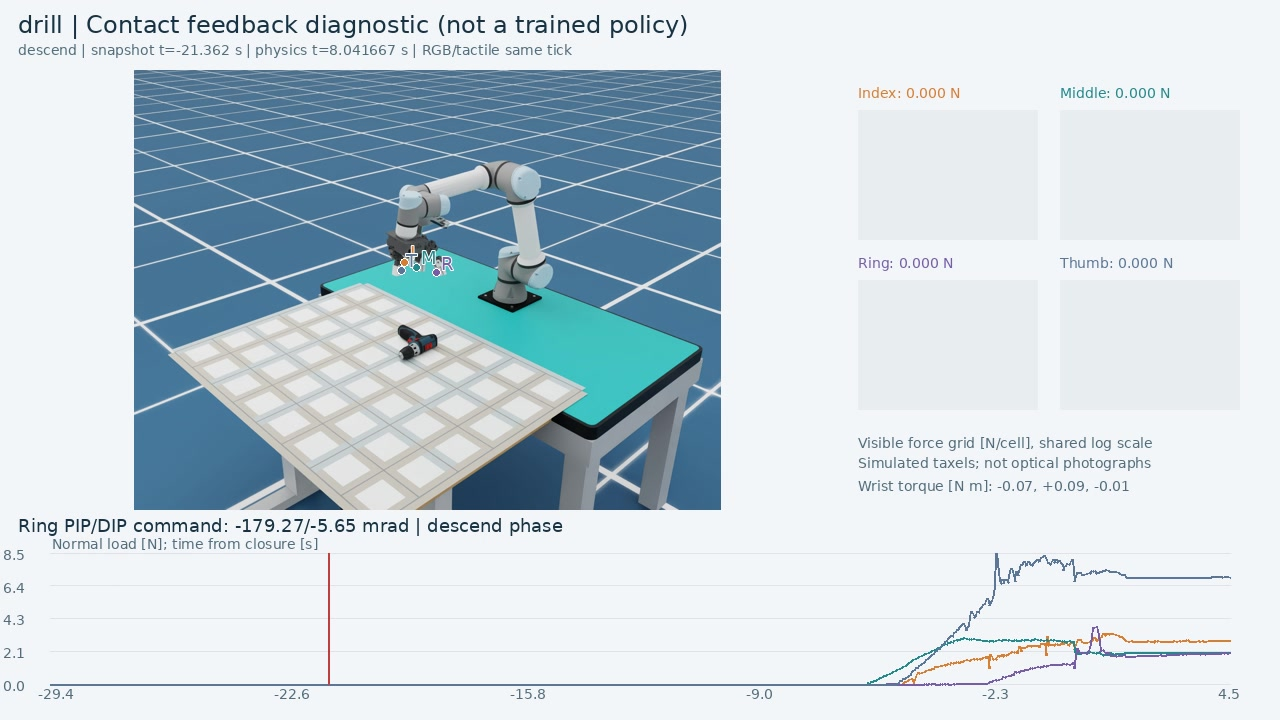
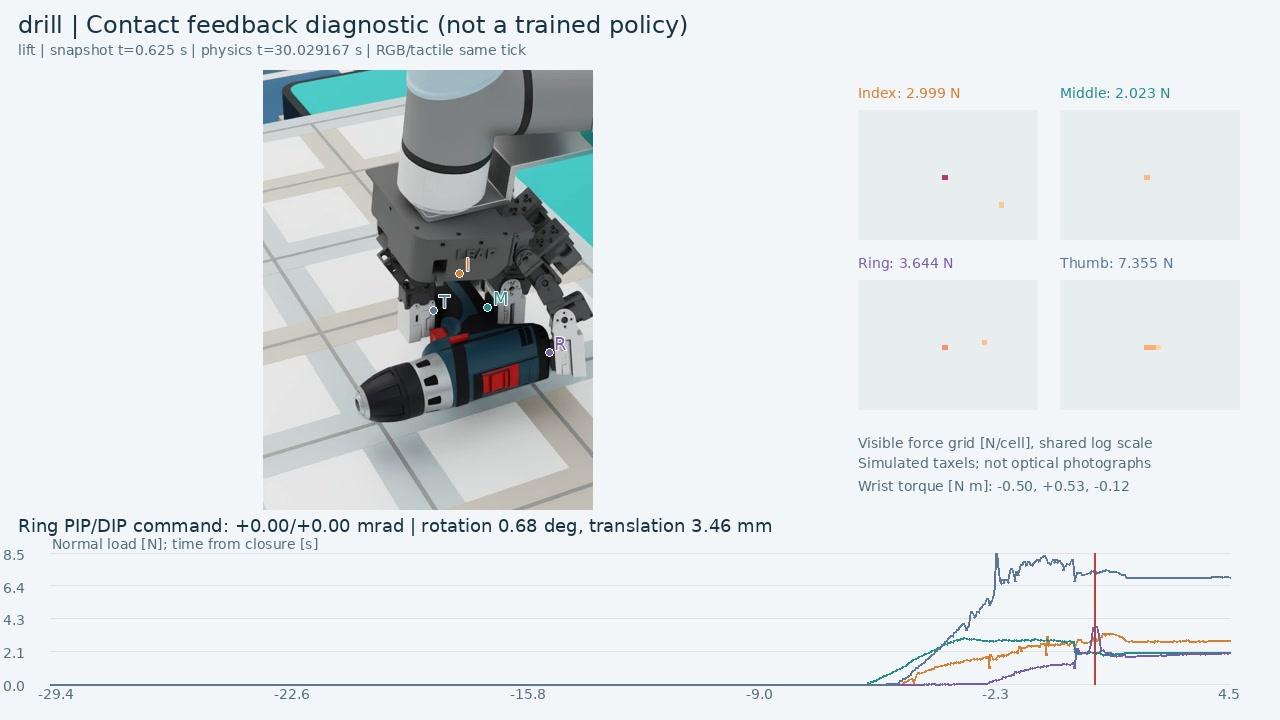
Show drill tactile contact in preview

diff --git a/demos/tactile_replays/drill.html b/demos/tactile_replays/drill.html
@@ -1,7 +1,7 @@
 <!doctype html><html lang="en"><meta charset="utf-8"><title>drill · Synchronized Tactile Replay</title>
 <style>body{background:#14252e;color:#d9ecee;font:16px system-ui;margin:20px}button{padding:8px 14px;margin:4px;background:#167f8a;color:white;border:0;cursor:pointer}.main{display:grid;grid-template-columns:1.2fr 1fr;gap:15px}.pads{display:grid;grid-template-columns:1fr 1fr;gap:6px}.pads canvas{width:100%;display:block;background:#101b20;border:1px solid #597177}.small{font-size:13px;color:#a8c5cd;line-height:1.55}.control{display:flex;gap:8px;align-items:center}.control input{flex:1}#stats{padding:16px;background:#253d47;line-height:1.7;margin-top:12px}#scene{width:100%;display:block;background:#10252e}.fallback{max-width:980px;margin:16px 0}.fallback video{width:100%;display:block;background:#10252e;border:1px solid #597177}.fallback p{max-width:980px}</style>
-<h2 id="title">drill / coupled engineering diagnostic / Synchronized Tactile Replay</h2><div class="small">Each packet synchronizes the scene, four tactile panels, and wrench values. Tactile panels are optical/visible-contact proxy visualizations, not calibrated force maps.</div>
+<h2 id="title">drill / Contact feedback diagnostic (not a trained policy) / Synchronized Tactile Replay</h2><div class="small">Each packet synchronizes the scene, four tactile panels, and wrench values. Tactile panels are optical/visible-contact proxy visualizations, not calibrated force maps.</div>
 <div id="interactive"><div class="control"><button id="play">Play</button><input id="time" type="range" value="0" min="0"><b id="label"></b></div><div id="phases"></div>
 <div class="main"><canvas id="scene" width="720" height="540" aria-label="Synchronized scene"></canvas><div class="pads"><div><b style="color:#df7b27">Index</b><canvas id="p0" width="320" height="240"></canvas><span id="n0"></span></div><div><b style="color:#007f82">Middle</b><canvas id="p1" width="320" height="240"></canvas><span id="n1"></span></div><div><b style="color:#7958a6">Ring</b><canvas id="p2" width="320" height="240"></canvas><span id="n2"></span></div><div><b style="color:#5d789d">Thumb</b><canvas id="p3" width="320" height="240"></canvas><span id="n3"></span></div></div></div><div id="stats"></div></div>
-<noscript><style>#interactive{display:none!important}</style><section class="fallback"><h2>drill / coupled engineering diagnostic / Replay video</h2><video autoplay loop muted controls playsinline preload="metadata" poster="../../assets/replays_video/drill_poster.jpg" aria-label="drill synchronized tactile replay"><source src="../../assets/replays_video/drill.mp4" type="video/mp4"></video><p class="small">This synchronized replay is available without JavaScript. Enable “JS on” in the viewer toolbar for packet-level phase buttons, tactile panels, and the time slider.</p></section></noscript>
+<noscript><style>#interactive{display:none!important}</style><section class="fallback"><h2>drill / Contact feedback diagnostic (not a trained policy) / Replay video</h2><video autoplay loop muted controls playsinline preload="metadata" poster="../../assets/replays_video/drill_poster.jpg" aria-label="drill synchronized tactile replay"><source src="../../assets/replays_video/drill.mp4" type="video/mp4"></video><p class="small">This synchronized replay is available without JavaScript. Enable “JS on” in the viewer toolbar for packet-level phase buttons, tactile panels, and the time slider.</p></section></noscript>
 <script>const D={"sprite":"../../assets/replays_sprite/drill.jpg","object":"drill","mode":"contact feedback engineering diagnostic","sprite":"../../assets/replays_sprite/drill.jpg","cols":6,"cellW":480,"cellH":180,"packets":[{"t":0.0417,"phase":"home","dynamic":false,"slider":0.0,"target":0.0,"com":[0.0,0.0,0.0],"wrench":[-0.059,0.112,-0.013],"normal":[0.0,0.0,0.0,0.0]},{"t":0.5417,"phase":"home","dynamic":false,"slider":0.0,"target":0.0,"com":[0.0,0.0,0.0],"wrench":[-0.061,0.106,-0.0],"normal":[0.0,0.0,0.0,0.0]},{"t":1.0417,"phase":"home","dynamic":false,"slider":0.0,"target":0.0,"com":[0.0,0.0,0.0],"wrench":[-0.061,0.106,0.0],"normal":[0.0,0.0,0.0,0.0]},{"t":1.5417,"phase":"home","dynamic":false,"slider":0.0,"target":0.0,"com":[0.0,0.0,0.0],"wrench":[-0.061,0.106,0.0],"normal":[0.0,0.0,0.0,0.0]},{"t":2.0417,"phase":"hand_pregrasp","dynamic":false,"slider":0.0,"target":0.0,"com":[0.0,0.0,0.0],"wrench":[-0.1,0.134,-0.025],"normal":[0.0,0.0,0.0,0.0]},{"t":2.5417,"phase":"hand_pregrasp","dynamic":false,"slider":0.0,"target":0.0,"com":[0.0,0.0,0.0],"wrench":[-0.088,0.172,-0.034],"normal":[0.0,0.0,0.0,0.0]},{"t":3.0417,"phase":"move","dynamic":false,"slider":0.0,"target":0.0,"com":[0.0,0.0,0.0],"wrench":[0.002,-0.056,0.072],"normal":[0.0,0.0,0.0,0.0]},{"t":3.5417,"phase":"move","dynamic":false,"slider":0.0,"target":0.0,"com":[0.0,0.0,0.0],"wrench":[-0.091,0.112,-0.016],"normal":[0.0,0.0,0.0,0.0]},{"t":4.0417,"phase":"move","dynamic":false,"slider":0.0,"target":0.0,"com":[0.0,0.0,0.0],"wrench":[-0.091,0.091,-0.004],"normal":[0.0,0.0,0.0,0.0]},{"t":4.5417,"phase":"move","dynamic":false,"slider":0.0,"target":0.0,"com":[0.0,0.0,0.0],"wrench":[-0.069,0.13,-0.013],"normal":[0.0,0.0,0.0,0.0]},{"t":5.0417,"phase":"move","dynamic":false,"slider":0.0,"target":0.0,"com":[0.0,0.0,0.0],"wrench":[-0.028,0.098,0.002],"normal":[0.0,0.0,0.0,0.0]},{"t":5.5417,"phase":"move","dynamic":false,"slider":0.0,"target":0.0,"com":[0.0,0.0,0.0],"wrench":[-0.051,0.127,-0.009],"normal":[0.0,0.0,0.0,0.0]},{"t":6.0417,"phase":"move","dynamic":false,"slider":0.0,"target":0.0,"com":[0.0,0.0,0.0],"wrench":[-0.139,0.127,-0.025],"normal":[0.0,0.0,0.0,0.0]},{"t":6.5417,"phase":"move","dynamic":false,"slider":0.0,"target":0.0,"com":[0.0,0.0,0.0],"wrench":[-0.096,0.115,-0.011],"normal":[0.0,0.0,0.0,0.0]},{"t":7.0417,"phase":"move","dynamic":false,"slider":0.0,"target":0.0,"com":[0.0,0.0,0.0],"wrench":[-0.103,0.104,-0.008],"normal":[0.0,0.0,0.0,0.0]},{"t":7.5417,"phase":"move","dynamic":false,"slider":0.0,"target":0.0,"com":[0.0,0.0,0.0],"wrench":[-0.103,0.096,-0.004],"normal":[0.0,0.0,0.0,0.0]},{"t":8.0417,"phase":"descend","dynamic":false,"slider":0.0,"target":0.0,"com":[0.0,0.0,0.0],"wrench":[-0.069,0.089,-0.013],"normal":[0.0,0.0,0.0,0.0]},{"t":8.5417,"phase":"descend","dynamic":false,"slider":0.0,"target":0.0,"com":[0.0,0.0,0.0],"wrench":[-0.055,0.105,-0.021],"normal":[0.0,0.0,0.0,0.0]},{"t":9.0417,"phase":"descend","dynamic":false,"slider":0.0,"target":0.0,"com":[0.0,0.0,0.0],"wrench":[-0.065,0.107,-0.022],"normal":[0.0,0.0,0.0,0.0]},{"t":9.5417,"phase":"descend","dynamic":false,"slider":0.0,"target":0.0,"com":[0.0,0.0,0.0],"wrench":[-0.085,0.107,-0.023],"normal":[0.0,0.0,0.0,0.0]},{"t":10.0417,"phase":"pregrasp","dynamic":false,"slider":0.0,"target":0.0,"com":[0.0,0.0,0.0],"wrench":[-0.077,0.09,-0.016],"normal":[0.0,0.0,0.0,0.0]},{"t":10.5417,"phase":"pregrasp","dynamic":false,"slider":0.0,"target":0.0,"com":[0.0,0.0,0.0],"wrench":[-0.072,0.101,-0.019],"normal":[0.0,0.0,0.0,0.0]},{"t":11.0417,"phase":"approach","dynamic":false,"slider":0.0,"target":0.0,"com":[0.0,0.0,0.0],"wrench":[-0.07,0.091,-0.018],"normal":[0.0,0.0,0.0,0.0]},{"t":11.5417,"phase":"approach","dynamic":false,"slider":0.0,"target":0.0,"com":[0.0,0.0,0.0],"wrench":[-0.067,0.099,-0.019],"normal":[0.0,0.0,0.0,0.0]},{"t":12.0417,"phase":"approach","dynamic":false,"slider":0.0,"target":0.0,"com":[0.0,0.0,0.0],"wrench":[-0.073,0.104,-0.021],"normal":[0.0,0.0,0.0,0.0]},{"t":12.5417,"phase":"approach","dynamic":false,"slider":0.0,"target":0.0,"com":[0.0,0.0,0.0],"wrench":[-0.077,0.11,-0.023],"normal":[0.0,0.0,0.0,0.0]},{"t":13.0417,"phase":"close","dynamic":false,"slider":0.0,"target":0.0,"com":[0.0,0.0,0.0],"wrench":[-0.074,0.098,-0.019],"normal":[0.0,0.0,0.0,0.0]},{"t":13.5417,"phase":"close","dynamic":false,"slider":0.0,"target":0.0,"com":[0.0,0.0,0.0],"wrench":[-0.072,0.102,-0.019],"normal":[0.0,0.0,0.0,0.0]},{"t":14.0417,"phase":"close","dynamic":false,"slider":0.0,"target":0.0,"com":[0.0,0.0,0.0],"wrench":[-0.072,0.101,-0.019],"normal":[0.0,0.0,0.0,0.0]},{"t":14.5417,"phase":"close","dynamic":false,"slider":0.0,"target":0.0,"com":[0.0,0.0,0.0],"wrench":[-0.072,0.101,-0.019],"normal":[0.0,0.0,0.0,0.0]},{"t":15.0417,"phase":"close","dynamic":false,"slider":0.0,"target":0.0,"com":[0.0,0.0,0.0],"wrench":[-0.072,0.101,-0.019],"normal":[0.0,0.0,0.0,0.0]},{"t":15.5417,"phase":"close","dynamic":false,"slider":0.0,"target":0.0,"com":[0.0,0.0,0.0],"wrench":[-0.072,0.101,-0.019],"normal":[0.0,0.0,0.0,0.0]},{"t":16.0417,"phase":"close","dynamic":false,"slider":0.0,"target":0.0,"com":[0.0,0.0,0.0],"wrench":[-0.072,0.102,-0.019],"normal":[0.0,0.0,0.0,0.0]},{"t":16.5417,"phase":"close","dynamic":false,"slider":0.0,"target":0.0,"com":[0.0,0.0,0.0],"wrench":[-0.072,0.102,-0.019],"normal":[0.0,0.0,0.0,0.0]},{"t":17.0417,"phase":"close","dynamic":false,"slider":0.0,"target":0.0,"com":[0.0,0.0,0.0],"wrench":[-0.072,0.101,-0.019],"normal":[0.0,0.0,0.0,0.0]},{"t":17.5417,"phase":"close","dynamic":false,"slider":0.0,"target":0.0,"com":[0.0,0.0,0.0],"wrench":[-0.072,0.101,-0.019],"normal":[0.0,0.0,0.0,0.0]},{"t":18.0417,"phase":"close","dynamic":false,"slider":0.0,"target":0.0,"com":[0.0,0.0,0.0],"wrench":[-0.072,0.101,-0.019],"normal":[0.0,0.0,0.0,0.0]},{"t":18.5417,"phase":"close","dynamic":false,"slider":0.0,"target":0.0,"com":[0.0,0.0,0.0],"wrench":[-0.072,0.101,-0.019],"normal":[0.0,0.0,0.0,0.0]},{"t":19.0417,"phase":"close","dynamic":false,"slider":0.0,"target":0.0,"com":[0.0,0.0,0.0],"wrench":[-0.072,0.102,-0.019],"normal":[0.0,0.0,0.0,0.0]},{"t":19.5417,"phase":"close","dynamic":false,"slider":0.0,"target":0.0,"com":[0.0,0.0,0.0],"wrench":[-0.072,0.101,-0.019],"normal":[0.0,0.0,0.0,0.0]},{"t":20.0417,"phase":"close","dynamic":false,"slider":0.0,"target":0.0,"com":[0.0,0.0,0.0],"wrench":[-0.072,0.101,-0.019],"normal":[0.0,0.0,0.0,0.0]},{"t":20.5417,"phase":"close","dynamic":false,"slider":0.0,"target":0.0,"com":[0.0,0.0,0.0],"wrench":[-0.072,0.101,-0.019],"normal":[0.0,0.0,0.0,0.0]},{"t":21.0417,"phase":"close","dynamic":false,"slider":0.0,"target":0.0,"com":[0.0,0.0,0.0],"wrench":[-0.072,0.101,-0.019],"normal":[0.0,0.0,0.0,0.0]},{"t":21.5417,"phase":"close","dynamic":false,"slider":0.0,"target":0.0,"com":[0.0,0.0,0.0],"wrench":[-0.072,0.102,-0.019],"normal":[0.0,0.0,0.0,0.0]},{"t":22.0417,"phase":"close","dynamic":false,"slider":0.0,"target":0.0,"com":[0.0,0.0,0.0],"wrench":[-0.072,0.102,-0.02],"normal":[0.0,0.0,0.0,0.0]},{"t":22.5417,"phase":"close","dynamic":false,"slider":0.0,"target":0.0,"com":[0.0,0.0,0.0],"wrench":[-0.072,0.101,-0.019],"normal":[0.0,0.0,0.0,0.0]},{"t":23.0417,"phase":"close","dynamic":false,"slider":0.0,"target":0.0,"com":[0.0,0.0,0.0],"wrench":[-0.072,0.102,-0.02],"normal":[0.0,0.0,0.0,0.0]},{"t":23.5417,"phase":"close","dynamic":false,"slider":0.0,"target":0.0,"com":[0.0,0.0,0.0],"wrench":[-0.07,0.105,-0.021],"normal":[0.0,0.082,0.0,0.0]},{"t":23.875,"phase":"close","dynamic":false,"slider":0.0,"target":0.0,"com":[0.0,0.0,0.0],"wrench":[-0.064,0.151,-0.036],"normal":[0.0,0.397,0.0,0.0]},{"t":24.375,"phase":"close","dynamic":false,"slider":0.0,"target":0.0,"com":[0.0,0.0,0.0],"wrench":[0.019,0.313,-0.171],"normal":[0.0,0.927,0.0,0.023]},{"t":24.875,"phase":"close","dynamic":false,"slider":0.0,"target":0.0,"com":[0.0,0.0,0.0],"wrench":[0.197,0.415,-0.303],"normal":[0.248,1.647,0.0,0.954]},{"t":25.375,"phase":"close","dynamic":false,"slider":0.0,"target":0.0,"com":[0.0,0.0,0.0],"wrench":[0.281,0.595,-0.407],"normal":[1.027,2.185,0.003,1.913]},{"t":25.875,"phase":"close","dynamic":false,"slider":0.0,"target":0.0,"com":[0.0,0.0,0.0],"wrench":[0.342,0.646,-0.492],"normal":[1.265,2.685,0.0,3.059]},{"t":26.375,"phase":"close","dynamic":false,"slider":0.0,"target":0.0,"com":[0.0,0.0,0.0],"wrench":[0.33,0.777,-0.569],"normal":[1.588,2.945,0.012,3.694]},{"t":26.875,"phase":"close","dynamic":false,"slider":0.0,"target":0.0,"com":[0.0,0.0,0.0],"wrench":[0.187,0.641,-0.577],"normal":[1.775,2.849,0.024,5.2]},{"t":27.375,"phase":"close","dynamic":false,"slider":0.0,"target":0.0,"com":[0.0,0.0,0.0],"wrench":[0.111,0.539,-0.513],"normal":[1.888,2.84,0.373,6.769]},{"t":27.875,"phase":"close","dynamic":false,"slider":0.0,"target":0.0,"com":[0.0,0.0,0.0],"wrench":[0.012,0.559,-0.469],"normal":[2.426,2.822,0.774,7.285]},{"t":28.375,"phase":"close","dynamic":false,"slider":0.0,"target":0.0,"com":[0.0,0.0,0.0],"wrench":[-0.117,0.405,-0.432],"normal":[2.524,2.858,1.106,8.069]},{"t":28.875,"phase":"close","dynamic":false,"slider":0.0,"target":0.0,"com":[0.0,0.0,0.0],"wrench":[-0.117,0.515,-0.391],"normal":[2.522,2.861,1.272,7.914]},{"t":29.0417,"phase":"settle","dynamic":false,"slider":0.0,"target":0.0,"com":[0.0,0.0,0.0],"wrench":[-0.108,0.484,-0.356],"normal":[2.572,2.815,1.257,7.884]},{"t":29.2917,"phase":"settle","dynamic":false,"slider":0.0,"target":0.0,"com":[0.0,0.0,0.0],"wrench":[-0.045,0.524,-0.332],"normal":[2.518,2.796,1.293,7.735]},{"t":29.4042,"phase":"closed","dynamic":false,"slider":0.0,"target":0.0,"com":[0.0,0.0,0.0],"wrench":[-0.199,0.495,-0.321],"normal":[2.474,2.731,1.384,7.29]},{"t":29.4458,"phase":"lift","dynamic":false,"slider":0.0,"target":0.0,"com":[0.0,0.0,0.0],"wrench":[-0.258,0.8,-0.361],"normal":[2.222,2.126,0.995,6.637]},{"t":29.5292,"phase":"lift","dynamic":false,"slider":0.0,"target":0.0,"com":[0.0,0.0,0.0],"wrench":[-0.601,0.441,-0.032],"normal":[2.731,2.036,2.283,7.235]},{"t":29.6125,"phase":"lift","dynamic":false,"slider":0.0,"target":0.0,"com":[0.0,0.0,0.0],"wrench":[-0.518,0.543,-0.115],"normal":[2.869,1.962,2.072,7.232]},{"t":29.6958,"phase":"lift","dynamic":false,"slider":0.0,"target":0.0,"com":[0.0,0.0,0.0],"wrench":[-0.534,0.531,-0.109],"normal":[2.704,2.035,2.071,7.138]},{"t":29.7792,"phase":"lift","dynamic":false,"slider":0.0,"target":0.0,"com":[0.0,0.0,0.0],"wrench":[-0.519,0.534,-0.107],"normal":[2.711,2.066,2.004,7.151]},{"t":29.8625,"phase":"lift","dynamic":false,"slider":0.0,"target":0.0,"com":[0.0,0.0,0.0],"wrench":[-0.525,0.536,-0.113],"normal":[2.728,2.032,2.186,7.241]},{"t":29.9458,"phase":"lift","dynamic":false,"slider":0.0,"target":0.0,"com":[0.0,0.0,0.0],"wrench":[-0.504,0.527,-0.104],"normal":[2.805,2.052,3.033,7.339]},{"t":30.0292,"phase":"lift","dynamic":false,"slider":0.0,"target":0.0,"com":[0.0,0.0,0.0],"wrench":[-0.495,0.528,-0.116],"normal":[2.999,2.023,3.644,7.355]},{"t":30.1125,"phase":"lift","dynamic":false,"slider":0.0,"target":0.0,"com":[0.0,0.0,0.0],"wrench":[-0.492,0.52,-0.108],"normal":[2.845,2.063,3.505,7.262]},{"t":30.1958,"phase":"lift","dynamic":false,"slider":0.0,"target":0.0,"com":[0.0,0.0,0.0],"wrench":[-0.502,0.506,-0.1],"normal":[2.995,1.993,2.102,7.275]},{"t":30.2792,"phase":"lift","dynamic":false,"slider":0.0,"target":0.0,"com":[0.0,0.0,0.0],"wrench":[-0.502,0.502,-0.097],"normal":[3.285,1.88,2.166,7.394]},{"t":30.3625,"phase":"lift","dynamic":false,"slider":0.0,"target":0.0,"com":[0.0,0.0,0.0],"wrench":[-0.492,0.509,-0.102],"normal":[3.272,1.905,2.016,7.408]},{"t":30.4458,"phase":"lift","dynamic":false,"slider":0.0,"target":0.0,"com":[0.0,0.0,0.0],"wrench":[-0.49,0.531,-0.109],"normal":[3.223,1.945,1.9,7.29]},{"t":30.5292,"phase":"lift","dynamic":false,"slider":0.0,"target":0.0,"com":[0.0,0.0,0.0],"wrench":[-0.479,0.506,-0.11],"normal":[3.281,1.923,1.841,7.304]},{"t":30.6125,"phase":"lift","dynamic":false,"slider":0.0,"target":0.0,"com":[0.0,0.0,0.0],"wrench":[-0.496,0.501,-0.097],"normal":[3.245,1.94,1.826,7.302]},{"t":30.6958,"phase":"lift","dynamic":false,"slider":0.0,"target":0.0,"com":[0.0,0.0,0.0],"wrench":[-0.475,0.5,-0.097],"normal":[3.156,1.971,1.819,7.26]},{"t":30.7792,"phase":"lift","dynamic":false,"slider":0.0,"target":0.0,"com":[0.0,0.0,0.0],"wrench":[-0.484,0.506,-0.099],"normal":[3.053,1.953,1.849,7.142]},{"t":30.8625,"phase":"lift","dynamic":false,"slider":0.0,"target":0.0,"com":[0.0,0.0,0.0],"wrench":[-0.475,0.5,-0.094],"normal":[2.917,1.991,1.892,7.128]},{"t":30.9458,"phase":"hold","dynamic":false,"slider":0.0,"target":0.0,"com":[0.0,0.0,0.0],"wrench":[-0.488,0.527,-0.107],"normal":[2.81,2.046,1.799,6.935]},{"t":31.0292,"phase":"hold","dynamic":false,"slider":0.0,"target":0.0,"com":[0.0,0.0,0.0],"wrench":[-0.495,0.52,-0.104],"normal":[2.768,2.054,1.793,6.931]},{"t":31.1125,"phase":"hold","dynamic":false,"slider":0.0,"target":0.0,"com":[0.0,0.0,0.0],"wrench":[-0.503,0.525,-0.108],"normal":[2.772,2.046,1.813,6.918]},{"t":31.1958,"phase":"hold","dynamic":false,"slider":0.0,"target":0.0,"com":[0.0,0.0,0.0],"wrench":[-0.501,0.52,-0.103],"normal":[2.772,2.044,1.817,6.917]},{"t":31.2792,"phase":"hold","dynamic":false,"slider":0.0,"target":0.0,"com":[0.0,0.0,0.0],"wrench":[-0.504,0.517,-0.104],"normal":[2.789,2.034,1.838,6.939]},{"t":31.3625,"phase":"hold","dynamic":false,"slider":0.0,"target":0.0,"com":[0.0,0.0,0.0],"wrench":[-0.501,0.521,-0.106],"normal":[2.762,2.043,1.829,6.928]},{"t":31.4458,"phase":"hold","dynamic":false,"slider":0.0,"target":0.0,"com":[0.0,0.0,0.0],"wrench":[-0.503,0.525,-0.105],"normal":[2.75,2.05,1.841,6.915]},{"t":31.5292,"phase":"hold","dynamic":false,"slider":0.0,"target":0.0,"com":[0.0,0.0,0.0],"wrench":[-0.509,0.521,-0.103],"normal":[2.771,2.043,1.856,6.913]},{"t":31.6125,"phase":"hold","dynamic":false,"slider":0.0,"target":0.0,"com":[0.0,0.0,0.0],"wrench":[-0.502,0.517,-0.102],"normal":[2.758,2.041,1.859,6.911]},{"t":31.6958,"phase":"hold","dynamic":false,"slider":0.0,"target":0.0,"com":[0.0,0.0,0.0],"wrench":[-0.504,0.526,-0.104],"normal":[2.752,2.046,1.869,6.914]},{"t":31.7792,"phase":"hold","dynamic":false,"slider":0.0,"target":0.0,"com":[0.0,0.0,0.0],"wrench":[-0.501,0.516,-0.106],"normal":[2.842,2.013,1.855,6.912]},{"t":31.8625,"phase":"hold","dynamic":false,"slider":0.0,"target":0.0,"com":[0.0,0.0,0.0],"wrench":[-0.5,0.519,-0.104],"normal":[2.813,2.024,1.868,6.92]},{"t":31.9458,"phase":"hold","dynamic":false,"slider":0.0,"target":0.0,"com":[0.0,0.0,0.0],"wrench":[-0.487,0.517,-0.105],"normal":[2.761,2.064,1.881,6.903]},{"t":32.0292,"phase":"hold","dynamic":false,"slider":0.0,"target":0.0,"com":[0.0,0.0,0.0],"wrench":[-0.495,0.516,-0.104],"normal":[2.779,2.043,1.876,6.916]},{"t":32.1125,"phase":"hold","dynamic":false,"slider":0.0,"target":0.0,"com":[0.0,0.0,0.0],"wrench":[-0.499,0.517,-0.103],"normal":[2.776,2.049,1.888,6.916]},{"t":32.1958,"phase":"hold","dynamic":false,"slider":0.0,"target":0.0,"com":[0.0,0.0,0.0],"wrench":[-0.503,0.519,-0.105],"normal":[2.791,2.028,1.883,6.924]},{"t":32.2792,"phase":"hold","dynamic":false,"slider":0.0,"target":0.0,"com":[0.0,0.0,0.0],"wrench":[-0.498,0.519,-0.102],"normal":[2.779,2.061,1.909,6.906]},{"t":32.3625,"phase":"hold","dynamic":false,"slider":0.0,"target":0.0,"com":[0.0,0.0,0.0],"wrench":[-0.5,0.523,-0.107],"normal":[2.748,2.056,1.91,6.901]},{"t":32.4458,"phase":"hold","dynamic":false,"slider":0.0,"target":0.0,"com":[0.0,0.0,0.0],"wrench":[-0.498,0.524,-0.105],"normal":[2.853,2.043,1.92,6.926]},{"t":32.5292,"phase":"hold","dynamic":false,"slider":0.0,"target":0.0,"com":[0.0,0.0,0.0],"wrench":[-0.496,0.52,-0.105],"normal":[2.793,2.046,1.948,6.904]},{"t":32.6125,"phase":"hold","dynamic":false,"slider":0.0,"target":0.0,"com":[0.0,0.0,0.0],"wrench":[-0.505,0.522,-0.103],"normal":[2.821,2.026,1.951,6.908]},{"t":32.6958,"phase":"hold","dynamic":false,"slider":0.0,"target":0.0,"com":[0.0,0.0,0.0],"wrench":[-0.505,0.533,-0.104],"normal":[2.867,2.034,1.958,6.917]},{"t":32.7792,"phase":"hold","dynamic":false,"slider":0.0,"target":0.0,"com":[0.0,0.0,0.0],"wrench":[-0.496,0.521,-0.106],"normal":[2.777,2.038,1.948,6.903]},{"t":32.8625,"phase":"hold","dynamic":false,"slider":0.0,"target":0.0,"com":[0.0,0.0,0.0],"wrench":[-0.496,0.529,-0.106],"normal":[2.761,2.044,1.96,6.893]},{"t":32.9458,"phase":"hold","dynamic":false,"slider":0.0,"target":0.0,"com":[0.0,0.0,0.0],"wrench":[-0.498,0.52,-0.104],"normal":[2.79,2.041,1.95,6.896]},{"t":33.0292,"phase":"hold","dynamic":false,"slider":0.0,"target":0.0,"com":[0.0,0.0,0.0],"wrench":[-0.501,0.523,-0.105],"normal":[2.749,2.054,1.957,6.894]},{"t":33.1125,"phase":"hold","dynamic":false,"slider":0.0,"target":0.0,"com":[0.0,0.0,0.0],"wrench":[-0.505,0.518,-0.104],"normal":[2.814,2.046,1.955,6.912]},{"t":33.1958,"phase":"hold","dynamic":false,"slider":0.0,"target":0.0,"com":[0.0,0.0,0.0],"wrench":[-0.503,0.523,-0.106],"normal":[2.788,2.045,1.947,6.907]},{"t":33.2792,"phase":"hold","dynamic":false,"slider":0.0,"target":0.0,"com":[0.0,0.0,0.0],"wrench":[-0.506,0.509,-0.104],"normal":[2.802,2.018,1.964,6.913]},{"t":33.3625,"phase":"hold","dynamic":false,"slider":0.0,"target":0.0,"com":[0.0,0.0,0.0],"wrench":[-0.501,0.495,-0.1],"normal":[2.804,2.042,1.98,6.927]},{"t":33.4458,"phase":"hold","dynamic":false,"slider":0.0,"target":0.0,"com":[0.0,0.0,0.0],"wrench":[-0.487,0.521,-0.108],"normal":[2.84,2.053,1.975,6.969]},{"t":33.5292,"phase":"hold","dynamic":false,"slider":0.0,"target":0.0,"com":[0.0,0.0,0.0],"wrench":[-0.506,0.516,-0.103],"normal":[2.805,2.077,2.004,6.953]},{"t":33.6125,"phase":"hold","dynamic":false,"slider":0.0,"target":0.0,"com":[0.0,0.0,0.0],"wrench":[-0.5,0.516,-0.102],"normal":[2.811,2.071,2.002,6.969]},{"t":33.6958,"phase":"hold","dynamic":false,"slider":0.0,"target":0.0,"com":[0.0,0.0,0.0],"wrench":[-0.508,0.52,-0.101],"normal":[2.806,2.067,2.017,6.944]},{"t":33.7792,"phase":"hold","dynamic":false,"slider":0.0,"target":0.0,"com":[0.0,0.0,0.0],"wrench":[-0.508,0.516,-0.1],"normal":[2.81,2.058,2.021,6.957]},{"t":33.8625,"phase":"hold","dynamic":false,"slider":0.0,"target":0.0,"com":[0.0,0.0,0.0],"wrench":[-0.492,0.519,-0.104],"normal":[2.815,2.07,2.01,6.959]},{"t":33.9042,"phase":"hold_complete","dynamic":false,"slider":0.0,"target":0.0,"com":[0.0,0.0,0.0],"wrench":[-0.503,0.519,-0.103],"normal":[2.818,2.054,2.015,6.94]}]},phaseNames={home:'Home',hand_pregrasp:'Hand pre-grasp',move:'Move',descend:'Descend',pregrasp:'Pre-grasp',approach:'Approach',close:'Close',closing:'Close',settle:'Contact settle',closed:'Closure complete',lift:'Lift',hold:'Hold',hold_complete:'Hold complete',failure:'Failure',return:'Return'};let current=0,timer=null,time=document.getElementById('time'),sprite=new Image();time.max=D.packets.length-1;const repoMatch=location.pathname.match(/\/r\/([^/]+)/),assetRoot=repoMatch?('/api/repo/'+repoMatch[1]+'/file/assets/replays_sprite/'):'';sprite.src=assetRoot?assetRoot+D.object+'.jpg':D.sprite;document.getElementById('title').textContent=D.object+' / '+D.mode+' / Synchronized Tactile Replay';function paint(c,sx,sy,sw,sh){let x=c.getContext('2d');x.clearRect(0,0,c.canvas.width,c.canvas.height);x.drawImage(sprite,sx,sy,sw,sh,0,0,c.canvas.width,c.canvas.height)}function show(i){current=i;time.value=i;const p=D.packets[i],col=i%D.cols,row=Math.floor(i/D.cols),x=col*D.cellW,y=row*D.cellH;paint(document.getElementById('scene'),x,y,240,180);for(let f=0;f<4;f++){paint(document.getElementById('p'+f),x+240+(f%2)*120,y+Math.floor(f/2)*90,120,90);document.getElementById('n'+f).textContent=p.normal.length?'Normal load '+p.normal[f].toFixed(3)+' N':''}document.getElementById('label').textContent=(phaseNames[p.phase]||p.phase)+' · t='+p.t.toFixed(3)+' s';document.getElementById('stats').textContent=(p.dynamic?'Payload actual/target '+p.slider.toFixed(1)+' / '+p.target.toFixed(1)+' mm':'Fixed payload')+' | CoM ['+p.com.map(v=>v.toFixed(1)).join(', ')+'] mm | Wrist torque ['+p.wrench.join(', ')+'] N·m'}let previous='';D.packets.forEach((p,i)=>{if(p.phase!==previous){const b=document.createElement('button');b.textContent=phaseNames[p.phase]||p.phase;b.onclick=()=>show(i);document.getElementById('phases').appendChild(b);previous=p.phase}});time.oninput=()=>show(+time.value);document.getElementById('play').onclick=()=>{if(timer){clearInterval(timer);timer=null;return}const start=performance.now(),t0=D.packets[current].t;timer=setInterval(()=>{const target=t0+(performance.now()-start)/1000;let i=current;while(i+1<D.packets.length&&D.packets[i+1].t<=target)i++;if(i!==current)show(i);if(current>=D.packets.length-1){clearInterval(timer);timer=null}},30)};sprite.onload=()=>show(0);</script></html>
